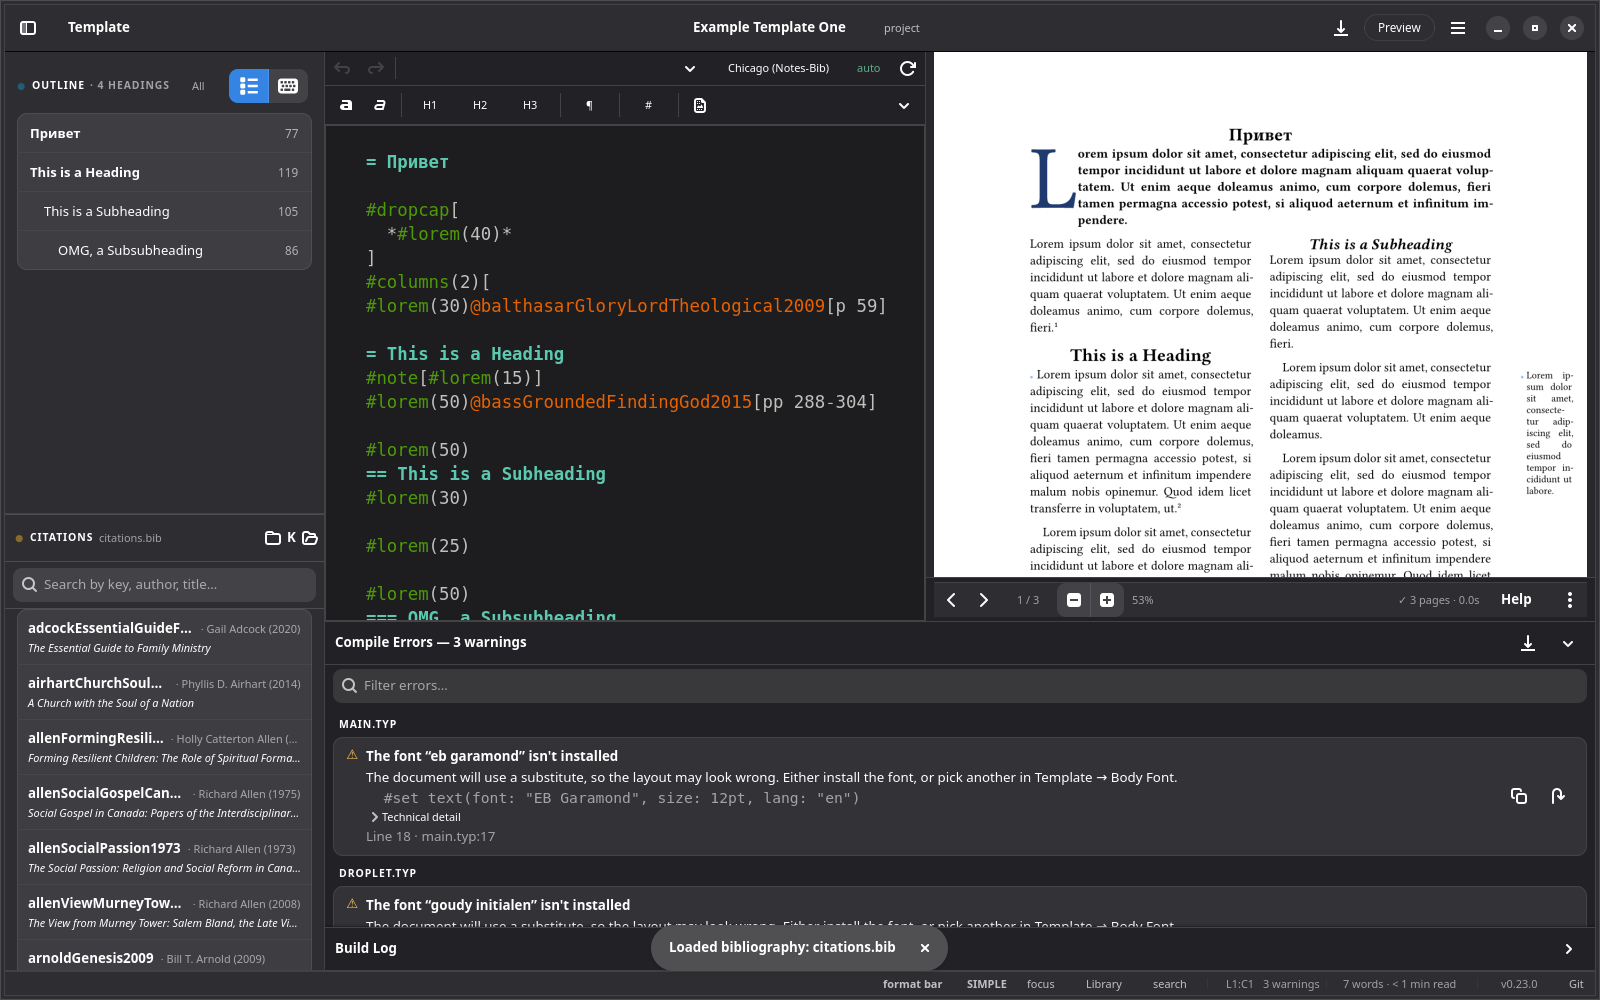
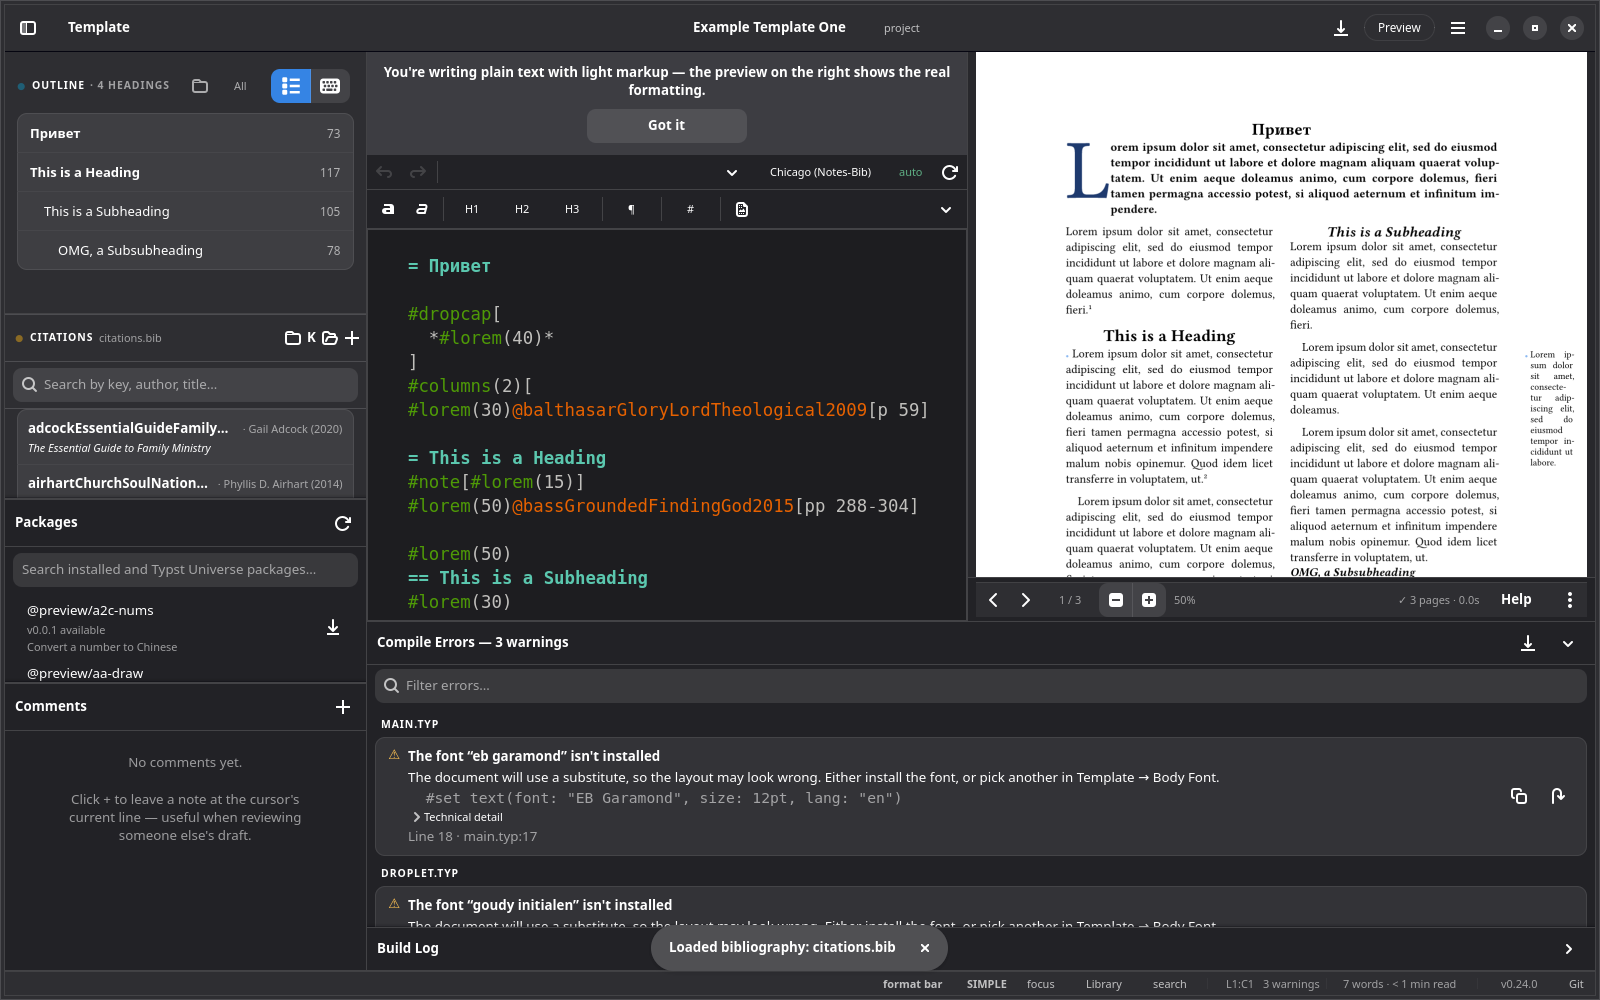
v0.24.0 "Second Reading" — comments, suggested edits, and a Word-migrant usability pass
Threaded comments with reviewable suggested edits from DOCX track-changes
import, Typst Universe package search and install, a manuscript-wide
outline, math and table authoring tools, and a 32-item usability pass for
anyone coming from Word. Also fixes bibliography paths that live outside
the project (most commonly a Kartoteka vault) never actually resolving
at compile time, and Update Template Settings not seeing a project-level
bib_path override.

See CHANGELOG.md and RELEASE.md for the full writeup.

Changed region(s): [[0.0, 0.031, 1.0, 0.992], [0.0, 0.31, 0.0938, 0.341], [0.4375, 0.186, 0.4688, 0.217]]

diff --git a/src/ui/welcome_window.rs b/src/ui/welcome_window.rs
@@ -7,7 +7,7 @@ use libadwaita as adw;
 use adw::prelude::*;
 
 const VERSION: &str = env!("CARGO_PKG_VERSION");
-pub const RELEASE_NAME: &str = "Open Shelf";
+pub const RELEASE_NAME: &str = "Second Reading";
 
 pub struct WelcomeWindow {
     window: adw::Window,

diff --git a/RELEASE.md b/RELEASE.md
@@ -1,4 +1,4 @@
-# Zerkalo v0.23.0 "Open Shelf"
+# Zerkalo v0.24.0 "Second Reading"
 
 Install via Flatpak:
 
@@ -18,15 +18,17 @@ flatpak update io.github.calstfrancis.Zerkalo
 
 ### What's new
 
-**Point the bibliography at a Kartoteka vault folder, not just a `.bib`/`.yaml` file.** Settings → Bibliography — or a new folder-icon button right in the citation sidebar — now lets you choose a Kartoteka vault directory directly. Entries load through the same library code Kartoteka itself is built on, and refresh live the moment something changes in the vault: add or edit an entry in Kartoteka and it shows up in the `@`-autocomplete popup, the citation sidebar, and the reference manager within about a second, no restart needed. A new **"K" button** beside it launches Kartoteka directly, or focuses it if it's already running. Plain `.bib`/`.yaml` files keep working exactly as before.
+**A Comments panel, with reviewable suggested edits from Word.** Leave threaded, resolvable notes anchored to a line — never written into the Typst source itself, so a comment can't break compilation or leak into an export. And if someone sends back a `.docx` with Word's track changes turned on, importing it now turns those changes into suggestions right in the same panel: both the proposed addition and the proposed removal are shown in context, with Accept and Reject buttons per suggestion, instead of Zerkalo silently accepting or dropping the edits the way plain document conversion always has.
 
-**File History…**, in the hamburger menu (next to Browse Snapshots) and the Ctrl+K palette, shows a document's git commit history and diffs without leaving the app.
+**The Packages panel can search and install from the Typst Universe**, not just list what's already downloaded — browse the full public package index with descriptions, and install with one click.
 
-**The hamburger menu is down to 20 rows in five clusters** (from 26 in seven). Document Fonts, Set Up Zerkalo, Backup Locations, and Tools moved into Settings, where that kind of configuration is easier to find. Settings itself got a plain-language pass — "Debounce" is now "Compile delay," and a few other rows dropped jargon or a raw file path shown as description text.
+**The Outline panel has a manuscript-wide view.** A folder toggle rolls up headings and word counts across every file reachable from a project's root, not just the one open in the current tab — useful for theses and other multi-file projects where the total matters, not just one chapter's.
 
-**Screen readers couldn't tell many icon-only buttons apart.** Folder/file browse buttons, the CV-mode switch, per-tag edit and delete buttons, and a few others had no accessible name — they're labelled now.
+**Math authoring and table authoring got real tools.** The Symbol Insert panel has a Math tab — common operators, relations, calculus notation, set theory, logic, arrows, and number sets, one click to insert. Insert Table builds a complete table block from a form — rows, columns, per-cell text, alignment, a header row, colspan/rowspan — instead of hand-writing the markup.
 
-**Internal:** clicking to jump from the preview to a line or word no longer blocks the interface while `pdftotext` runs; the largest file in the codebase (`template_dialog.rs`, 7,585 lines) is now a five-file module with no behaviour change.
+**Bibliographies now actually work when they live outside the project** — most commonly a Kartoteka vault, which is meant to be shared across projects rather than copied into each one. Two bugs meant this silently failed at compile time even though the citation panel worked fine: the bibliography path pointed at a folder Typst can't read as a data file, and more fundamentally, Typst couldn't reach anything outside the project directory at all. Both are fixed, and a document created before this release just needs Update Template Settings → Apply once to pick it up.
+
+**A 32-item usability pass for anyone coming from Word.** Import is a normal, always-available feature now, not a developer toggle. Restoring a snapshot asks first. The file that actually compiles is marked in the file tree. Help opens on plain language instead of raw Typst syntax. The Reference Manager and Dependency Graph — both built, both working, neither reachable before — are in the hamburger menu now. And a couple of smaller fixes: an inflated per-section word count, and the sidebar's Outline/Citations/Packages/Comments sections can now be resized against each other, not just against the editor.
 
 ---
 

diff --git a/CHANGELOG.md b/CHANGELOG.md
@@ -5,7 +5,7 @@ Format follows [Keep a Changelog](https://keepachangelog.com/en/1.1.0/).
 
 ---
 
-## [0.24.0-dev11] — Word-migrant usability pass, and manuscript tools
+## [0.24.0] "Second Reading" — 2026-08-18 — Comments, suggested edits, and a Word-migrant usability pass
 
 A 4-way UX audit found 32 issues that trip up someone coming from Word who's
 never used Typst, git, or a markup language. All 32 are fixed — see
